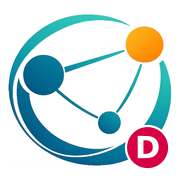
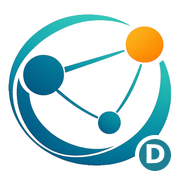
fix: isolate dev branding from production builds

Changed region(s): [[0.6944, 0.6944, 0.9722, 0.9722]]

diff --git a/vite.config.js b/vite.config.js
@@ -11,6 +11,9 @@ import fs from 'fs';
 import path from 'path';
 import buildConfig from './build.config';
 
+const activeClientConfig = JSON.parse(fs.readFileSync('config.json', 'utf8'));
+const isDevDeployment = activeClientConfig.homeserverList?.includes('dev.kiconnect.at') === true;
+
 const copyFiles = {
   targets: [
     {
@@ -31,8 +34,9 @@ const copyFiles = {
       dest: '',
     },
     {
-      src: 'public/manifest.json',
+      src: isDevDeployment ? 'public/manifest.dev.json' : 'public/manifest.json',
       dest: '',
+      rename: 'manifest.json',
     },
     {
       src: 'public/kiconnect-logo.png',
@@ -50,10 +54,14 @@ const copyFiles = {
       src: 'public/kiconnect-apple-touch-v6-180.png',
       dest: '',
     },
-    {
-      src: 'public/kiconnect-*-dev*.png',
-      dest: '',
-    },
+    ...(isDevDeployment
+      ? [
+          {
+            src: 'public/kiconnect-*-dev*.png',
+            dest: '',
+          },
+        ]
+      : []),
     {
       src: 'public/kiconnect-favicon-v6*',
       dest: '',
@@ -114,6 +122,9 @@ export default defineConfig({
   appType: 'spa',
   publicDir: false,
   base: buildConfig.base,
+  define: {
+    __KICONNECT_DEV_DEPLOYMENT__: JSON.stringify(isDevDeployment),
+  },
   server: {
     port: 8088,
     host: true,
@@ -129,6 +140,15 @@ export default defineConfig({
     allowedHosts: ['devcinny.kiconnect.at'],
   },
   plugins: [
+    {
+      name: 'kiconnect-dev-branding',
+      transformIndexHtml(html) {
+        if (!isDevDeployment) return html;
+        return html
+          .replaceAll('kiconnect-desktop-v2-', 'kiconnect-desktop-dev-')
+          .replace('kiconnect-apple-touch-v6-180.png', 'kiconnect-apple-touch-dev-180.png');
+      },
+    },
     serverMatrixSdkCryptoWasm('/node_modules/.vite/deps/pkg/matrix_sdk_crypto_wasm_bg.wasm'),
     topLevelAwait({
       // The export name of top-level await promise for each chunk module

diff --git a/index.html b/index.html
@@ -27,11 +27,11 @@
       rel="icon"
       type="image/png"
       sizes="32x32"
-      href="/kiconnect-desktop-dev-32.png"
+      href="/kiconnect-desktop-v2-32.png"
     />
-    <link rel="icon" type="image/png" sizes="16x16" href="/kiconnect-desktop-dev-16.png" />
-    <link rel="icon" type="image/png" sizes="48x48" href="/kiconnect-desktop-dev-48.png" />
-    <link rel="icon" type="image/png" sizes="64x64" href="/kiconnect-desktop-dev-64.png" />
+    <link rel="icon" type="image/png" sizes="16x16" href="/kiconnect-desktop-v2-16.png" />
+    <link rel="icon" type="image/png" sizes="48x48" href="/kiconnect-desktop-v2-48.png" />
+    <link rel="icon" type="image/png" sizes="64x64" href="/kiconnect-desktop-v2-64.png" />
 
     <link rel="manifest" href="/manifest.json" />
     <meta name="mobile-web-app-capable" content="yes" />
@@ -43,7 +43,7 @@
     <link
       rel="apple-touch-icon"
       sizes="180x180"
-      href="/kiconnect-apple-touch-dev-180.png"
+      href="/kiconnect-apple-touch-v6-180.png"
     />
   </head>
   <body id="appBody">

diff --git a/src/app/pages/client/ClientNonUIFeatures.tsx b/src/app/pages/client/ClientNonUIFeatures.tsx
@@ -26,8 +26,12 @@ import { useMediaAuthentication } from '../../hooks/useMediaAuthentication';
 import { useKiconnectLock } from '../../kiconnect/lock/LockProvider';
 import { TeamIdleMonitorProvider } from '../../kiconnect/idle/TeamIdleMonitor';
 
-const KIconnectLogo = '/kiconnect-app-icon-dev.png';
-const KIconnectFavicon = '/kiconnect-desktop-dev-48.png';
+const KIconnectLogo = __KICONNECT_DEV_DEPLOYMENT__
+  ? '/kiconnect-app-icon-dev.png'
+  : '/kiconnect-app-icon-v5.png';
+const KIconnectFavicon = __KICONNECT_DEV_DEPLOYMENT__
+  ? '/kiconnect-desktop-dev-48.png'
+  : '/kiconnect-desktop-v2-48.png';
 
 function isWindowsClient(): boolean {
   const uaData = navigator.userAgentData as { platform?: string } | undefined;

diff --git a/src/ext.d.ts b/src/ext.d.ts
@@ -33,3 +33,4 @@ declare module '*.svg' {
   const content: string;
   export default content;
 }
+declare const __KICONNECT_DEV_DEPLOYMENT__: boolean;
